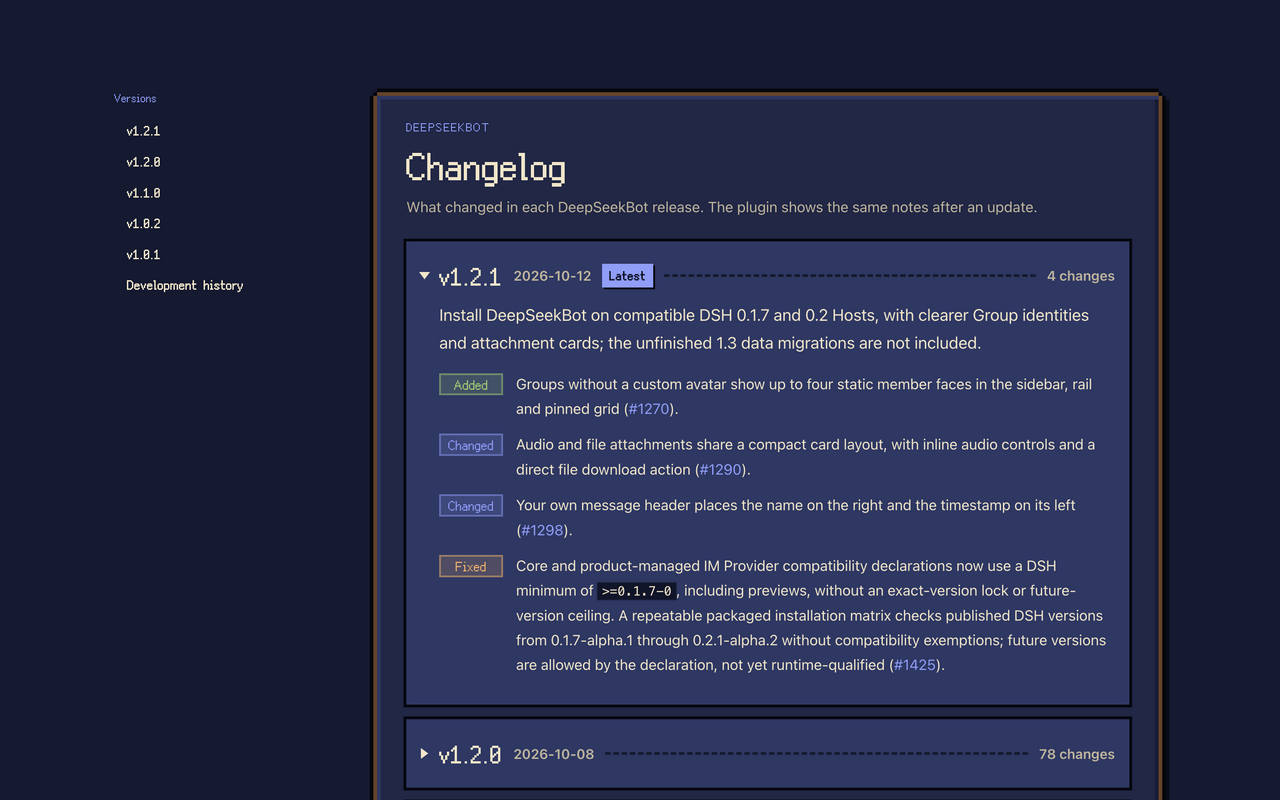
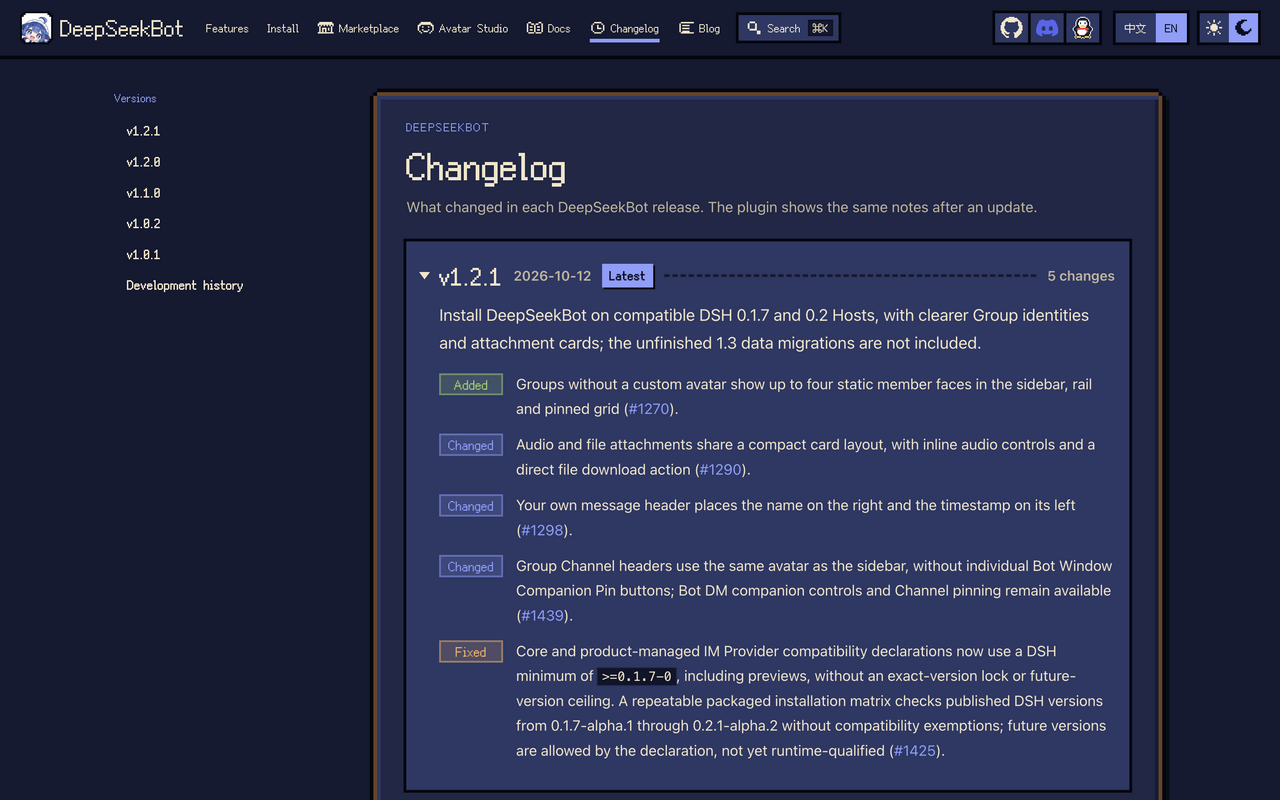
docs: include Group header correction in 1.2.1
Issue: #84
Agent-Task: codex/local/01a12b98-5cc4-70d3-baff-746a629517a1

Changed region(s): [[0.3125, 0.6875, 0.9062, 1.0], [0.0, 0.0, 1.0, 0.0938]]

diff --git a/content/changelog/en.md b/content/changelog/en.md
@@ -19,6 +19,7 @@ Install DeepSeekBot on compatible DSH 0.1.7 and 0.2 Hosts, with clearer Group id
 
 - Audio and file attachments share a compact card layout, with inline audio controls and a direct file download action ([#1290](https://github.com/BotHarness/DeepSeekBot/issues/1290)).
 - Your own message header places the name on the right and the timestamp on its left ([#1298](https://github.com/BotHarness/DeepSeekBot/issues/1298)).
+- Group Channel headers use the same avatar as the sidebar, without individual Bot Window Companion Pin buttons; Bot DM companion controls and Channel pinning remain available ([#1439](https://github.com/BotHarness/DeepSeekBot/issues/1439)).
 
 ### Fixed
 

diff --git a/content/changelog/zh.md b/content/changelog/zh.md
@@ -19,6 +19,7 @@
 
 - 音频和文件附件采用紧凑的统一卡片布局，提供内联音频控件和直接下载文件的操作 ([#1290](https://github.com/BotHarness/DeepSeekBot/issues/1290))。
 - 自己发送的消息头将名称放在右侧，时间放在名称左侧 ([#1298](https://github.com/BotHarness/DeepSeekBot/issues/1298))。
+- 群 Channel 消息区的 Header 与侧栏使用相同头像，不再显示单个 Bot 的窗口伙伴 Pin 按钮；Bot 私聊的小人 Pin 和 Channel 置顶保持可用 ([#1439](https://github.com/BotHarness/DeepSeekBot/issues/1439))。
 
 ### Fixed
 
